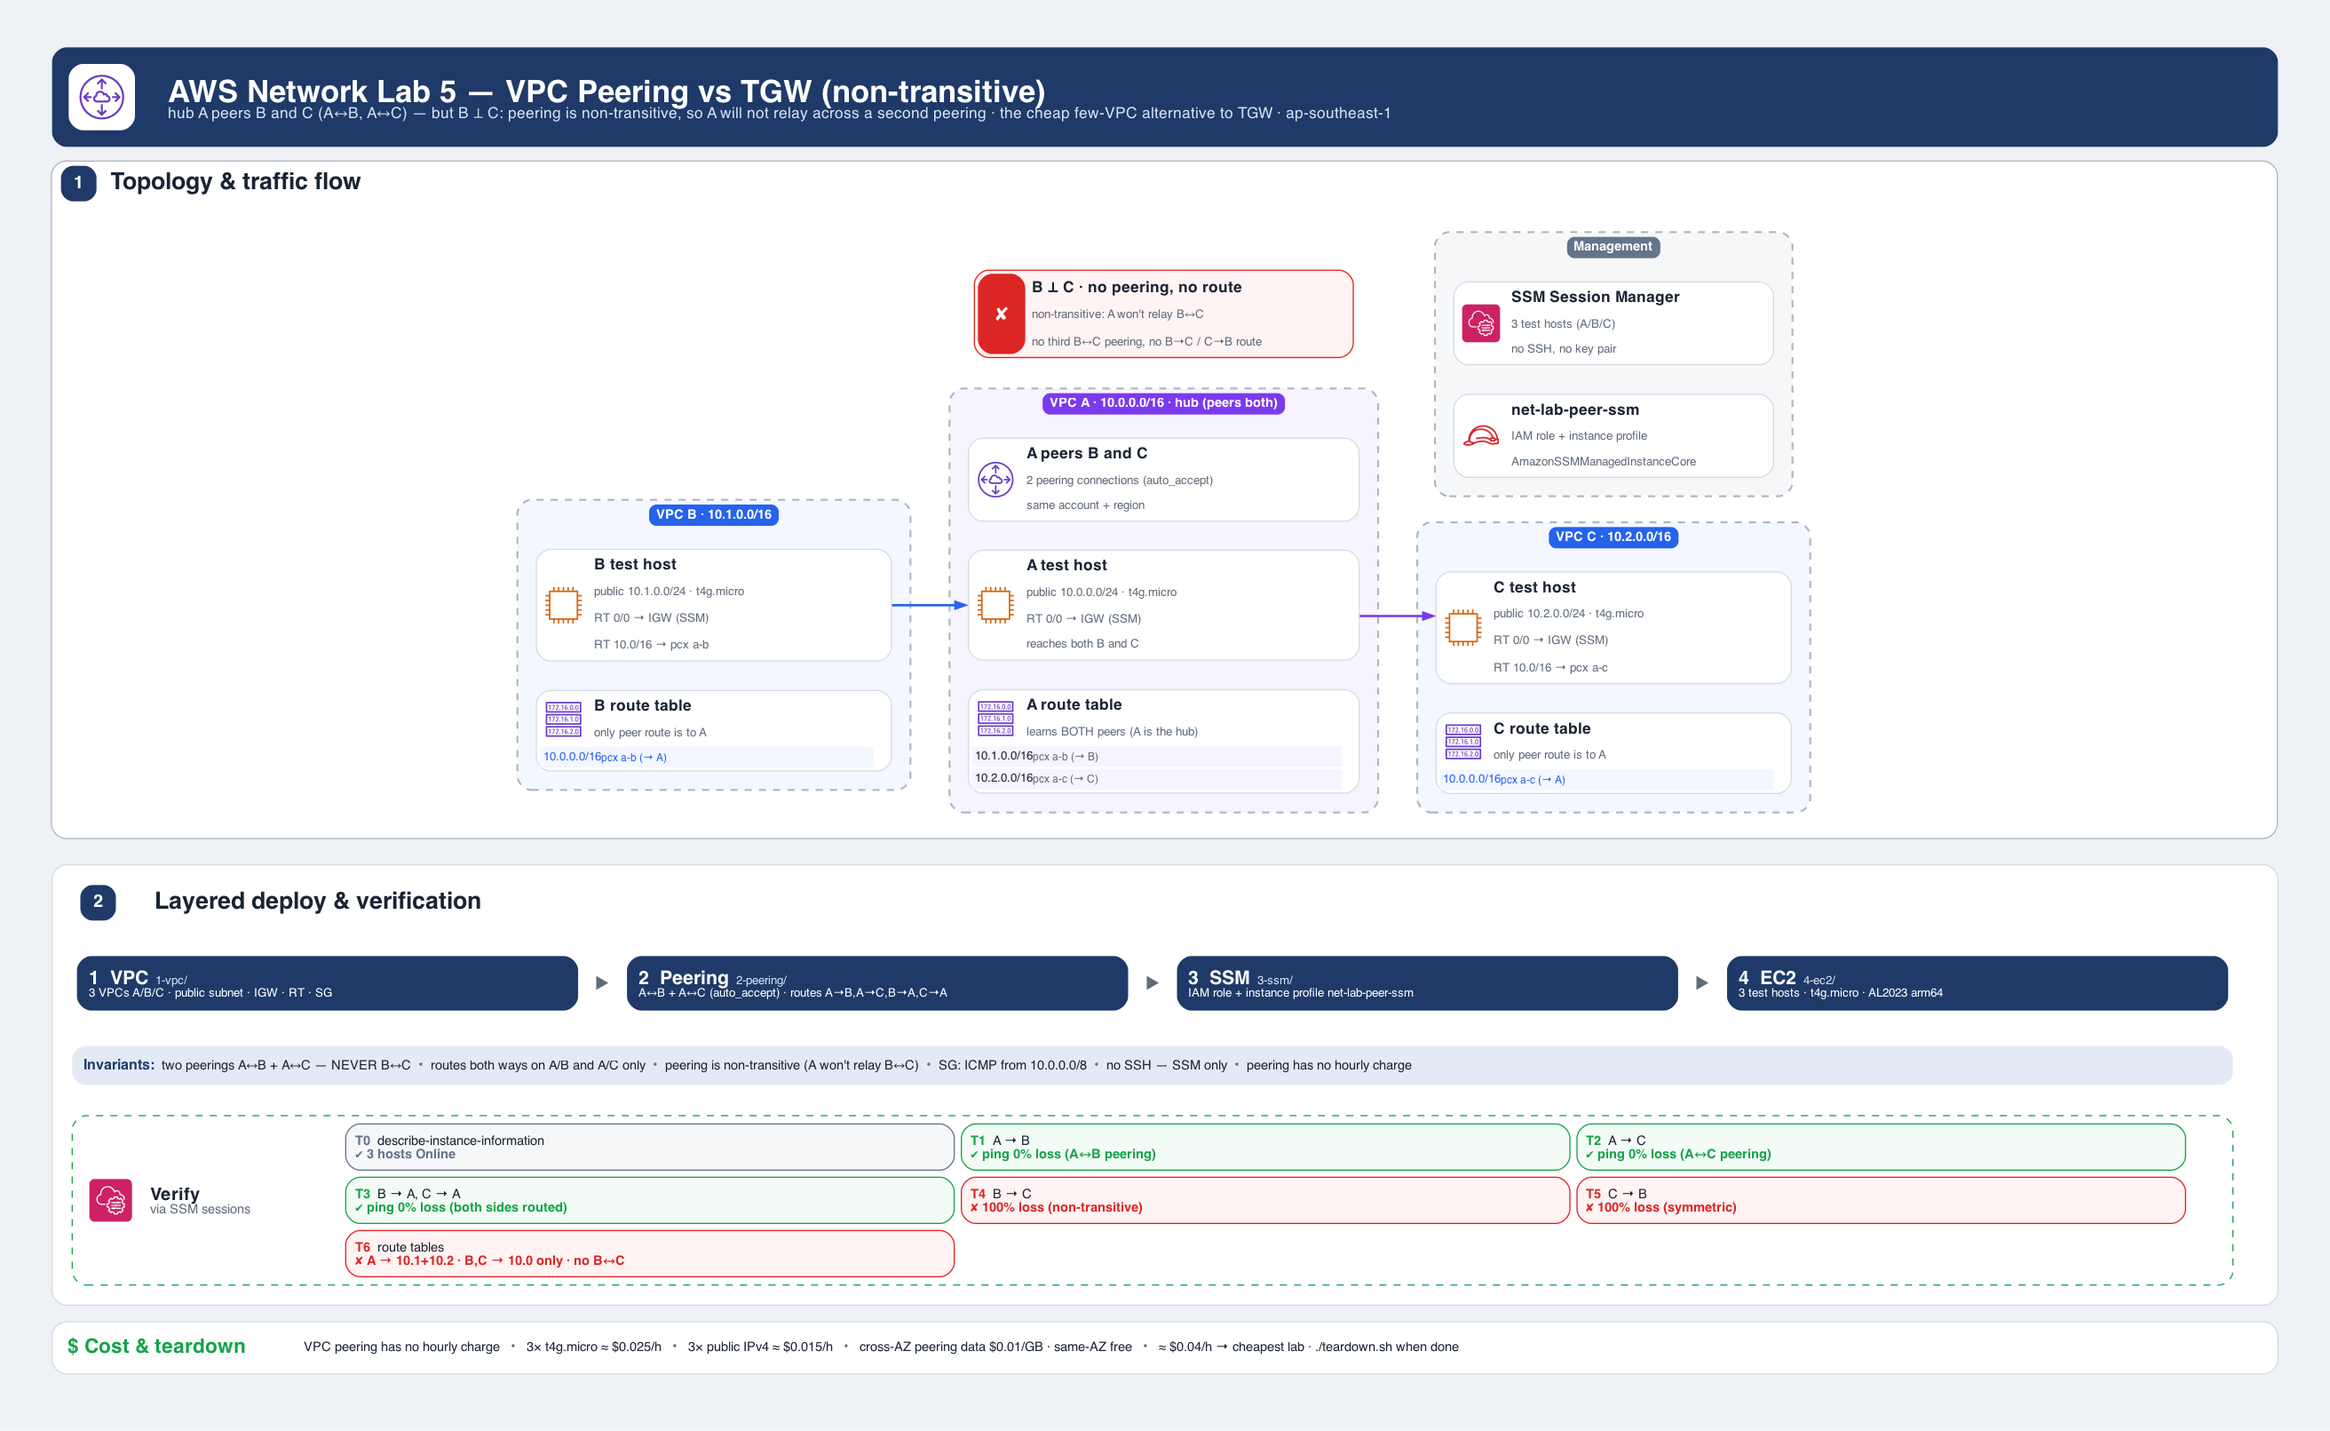
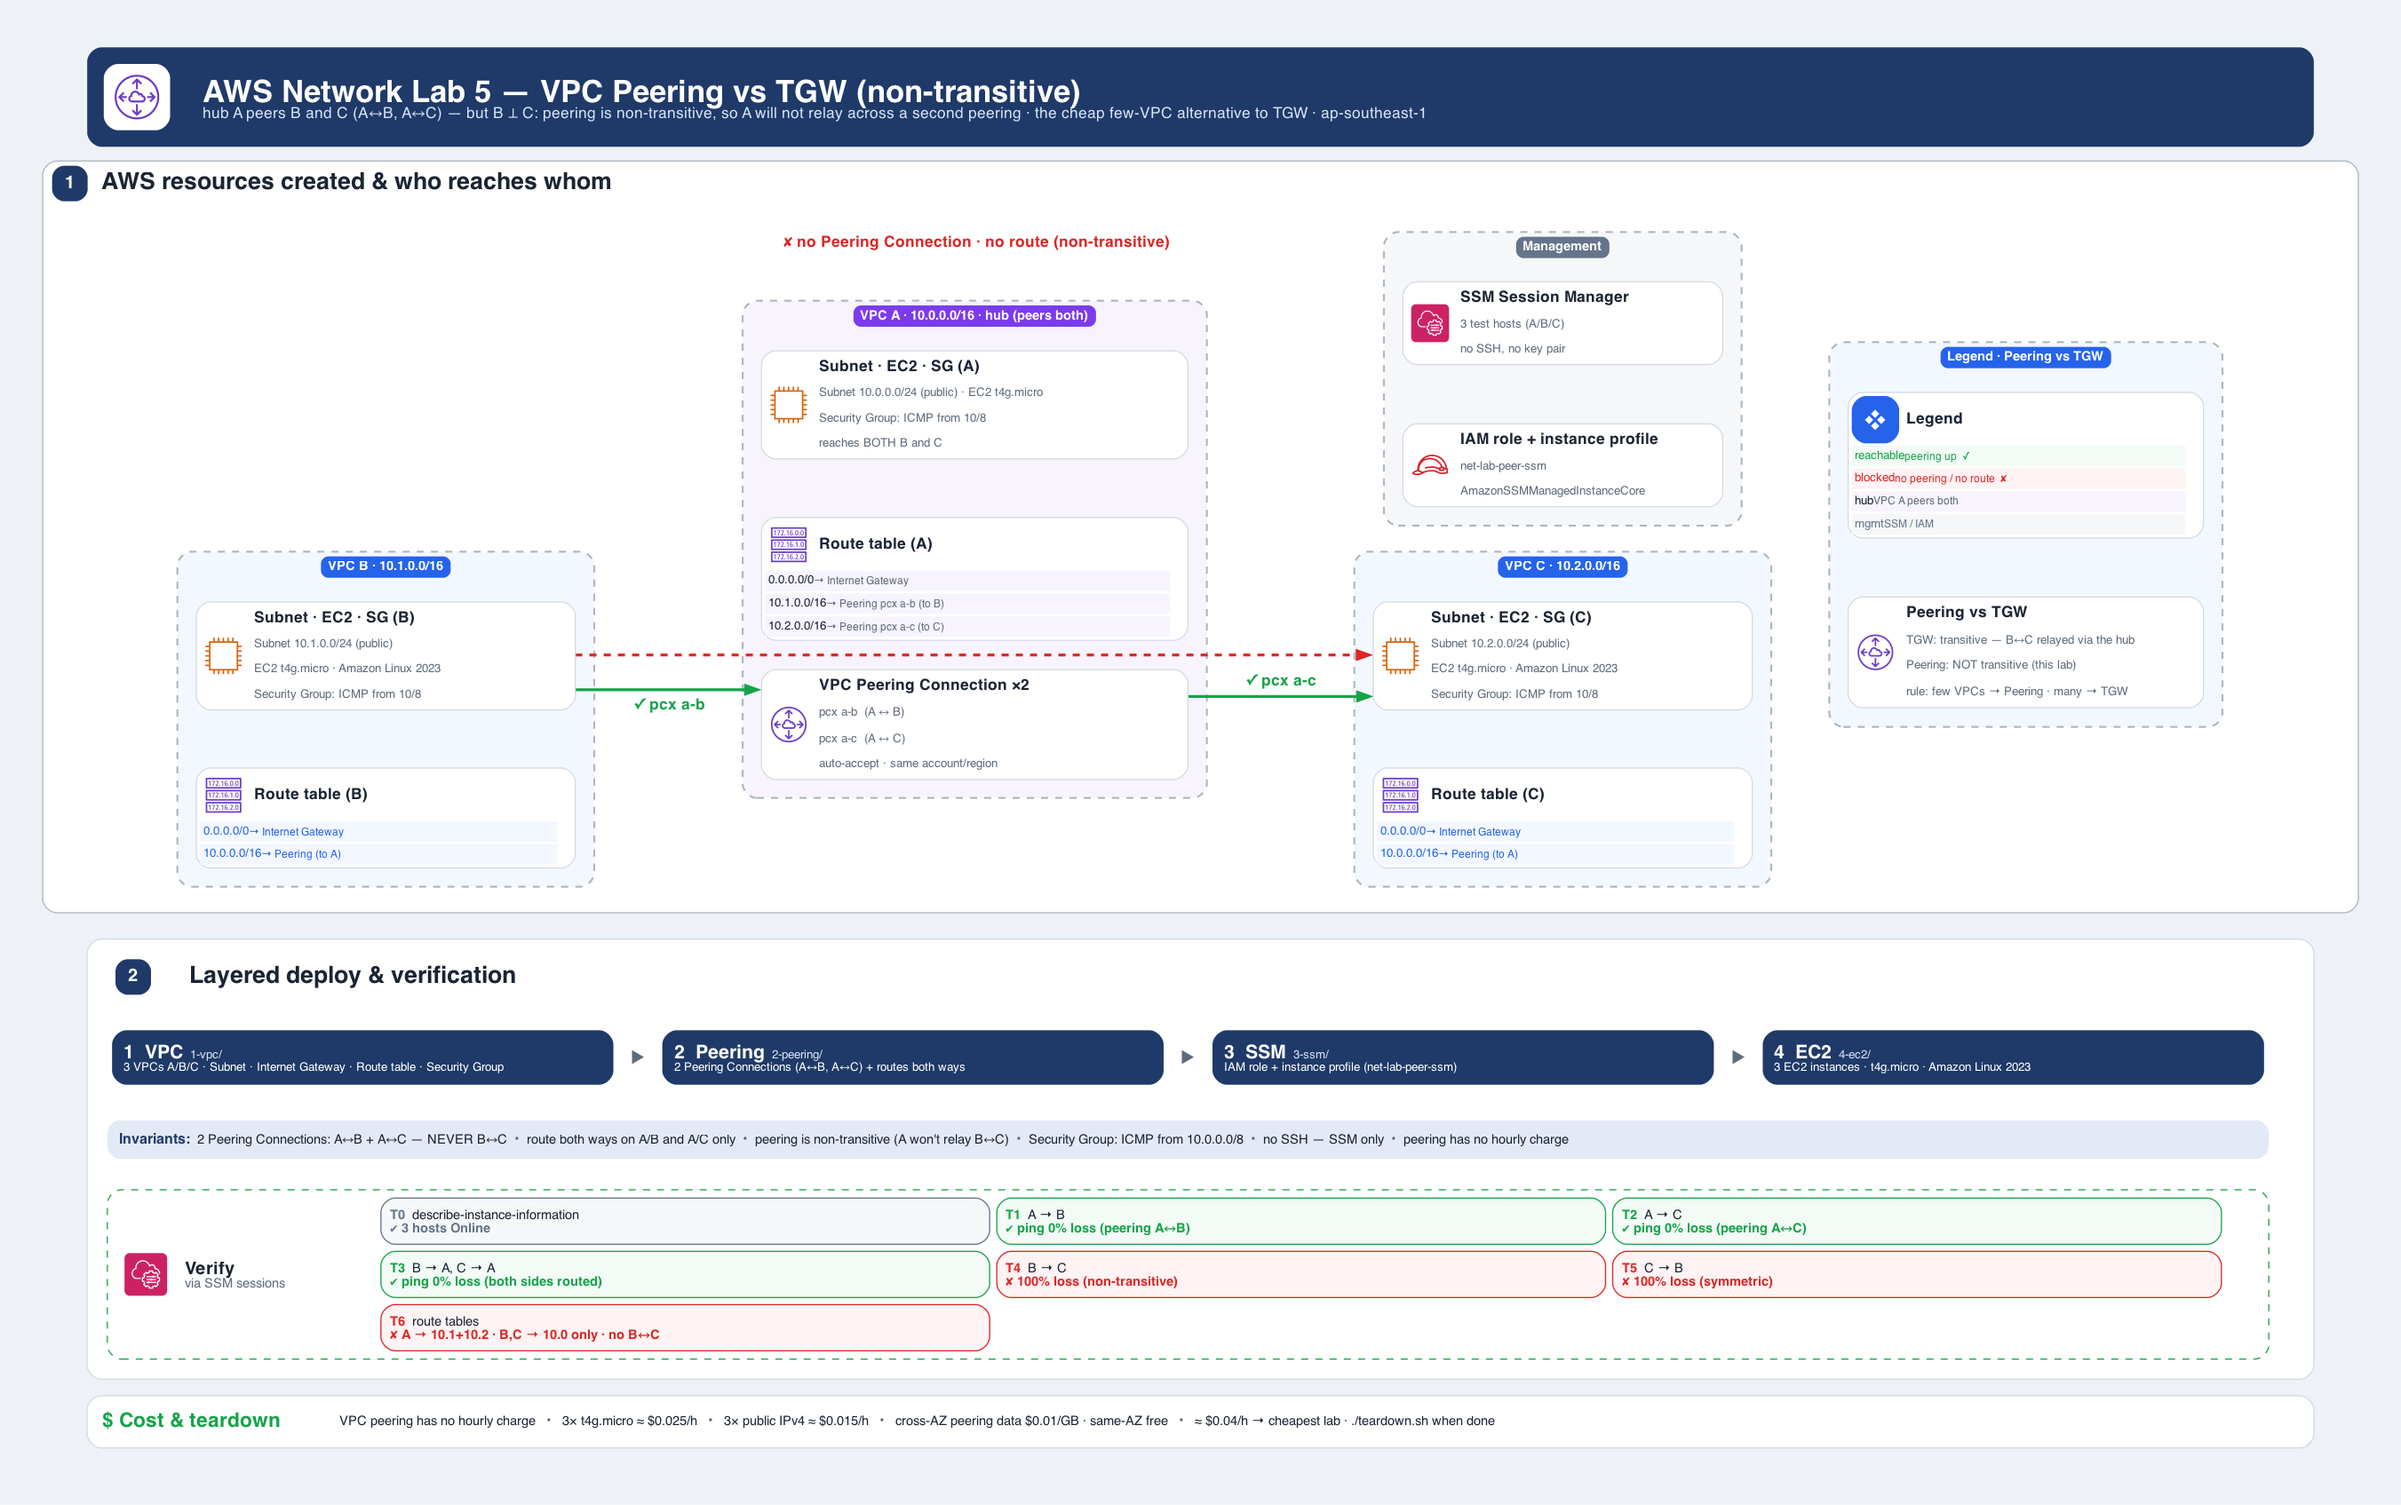
update

diff --git a/network/05-peering/architecture.py b/network/05-peering/architecture.py
@@ -190,31 +190,31 @@ def section2_html(steps, banners, checks):
             f'<TR><TD>{footer(*FOOTER)}</TD></TR></TABLE>>')
 
 
-# ── content (from 1-vpc … 4-ec2 *.tf and README.md) ───────────────────────────────────────────────
+# ── content (AWS resources as they appear in the console, not Terraform names) ───────────────────
 HEADER = ("AWS Network Lab 5 — VPC Peering vs TGW (non-transitive)",
           "hub A peers B and C (A↔B, A↔C) — but B ⊥ C: peering is non-transitive, so A will not relay "
           "across a second peering · the cheap few-VPC alternative to TGW · ap-southeast-1")
 
 STEPS = [  # (name, folder, builds, role)
-    ("VPC", "1-vpc/", "3 VPCs A/B/C · public subnet · IGW · RT · SG", "main"),
-    ("Peering", "2-peering/", "A↔B + A↔C (auto_accept) · routes A→B,A→C,B→A,C→A", "main"),
-    ("SSM", "3-ssm/", "IAM role + instance profile net-lab-peer-ssm", "main"),
-    ("EC2", "4-ec2/", "3 test hosts · t4g.micro · AL2023 arm64", "main"),
+    ("VPC", "1-vpc/", "3 VPCs A/B/C · Subnet · Internet Gateway · Route table · Security Group", "main"),
+    ("Peering", "2-peering/", "2 Peering Connections (A↔B, A↔C) + routes both ways", "main"),
+    ("SSM", "3-ssm/", "IAM role + instance profile (net-lab-peer-ssm)", "main"),
+    ("EC2", "4-ec2/", "3 EC2 instances · t4g.micro · Amazon Linux 2023", "main"),
 ]
 BANNERS = [
     ("Invariants:", [
-        "two peerings A↔B + A↔C — NEVER B↔C",
-        "routes both ways on A/B and A/C only",
+        "2 Peering Connections: A↔B + A↔C — NEVER B↔C",
+        "route both ways on A/B and A/C only",
         "peering is non-transitive (A won't relay B↔C)",
-        "SG: ICMP from 10.0.0.0/8",
+        "Security Group: ICMP from 10.0.0.0/8",
         "no SSH — SSM only",
         "peering has no hourly charge",
     ]),
 ]
 CHECKS = (("Verify", "via SSM sessions"), icon(SystemsManager), [
     ("T0", "describe-instance-information", "3 hosts Online", "mgmt"),
-    ("T1", "A → B", "ping 0% loss (A↔B peering)", "shared"),
-    ("T2", "A → C", "ping 0% loss (A↔C peering)", "shared"),
+    ("T1", "A → B", "ping 0% loss (peering A↔B)", "shared"),
+    ("T2", "A → C", "ping 0% loss (peering A↔C)", "shared"),
     ("T3", "B → A, C → A", "ping 0% loss (both sides routed)", "shared"),
     ("T4", "B → C", "100% loss (non-transitive)", "deny"),
     ("T5", "C → B", "100% loss (symmetric)", "deny"),
@@ -232,71 +232,86 @@ FOOTER = ("Cost & teardown", [
 OUT = os.path.splitext(os.path.basename(__file__))[0]
 graph_attr = dict(
     rankdir="LR", splines="ortho", newrank="true", bgcolor=CANVAS, pad="0.5", nodesep="0.35",
-    ranksep="0.9", fontname=FONT, label=header_html(icon(VPCPeering), *HEADER), labelloc="t",
+    ranksep="1.1", fontname=FONT, label=header_html(icon(VPCPeering), *HEADER), labelloc="t",
     labeljust="c", compound="true", outputorder="edgesfirst",
 )
 
 with Diagram("", filename=OUT, outformat="png", show=False, direction="LR", graph_attr=graph_attr,
              node_attr=dict(fontname=FONT, fixedsize="false", width="0", height="0", style="", labelloc="c"),
              edge_attr=dict(fontname=FONT)):
-    # invisible wrapper: its bottom label carries every full-width row (section 2 + footer)
     with box("wrapper", dict(label=section2_html(STEPS, BANNERS, CHECKS), labelloc="b",
                              labeljust="c", pencolor="transparent", bgcolor="transparent", margin="0")):
-        with box("section1", dict(label=section_label(1, "Topology & traffic flow", W - 16),
+        with box("section1", dict(label=section_label(1, "AWS resources created & who reaches whom", W - 16),
                                   labelloc="t", labeljust="l", style="rounded", color="#D5DBE3",
                                   bgcolor=PANEL, margin="22")):
-            # column 1 — spoke B
+            # column 1 — spoke B (AWS objects; title matches content)
             with group("VPC B · 10.1.0.0/16", "main"):
-                b_host = node(card("B test host", ["public 10.1.0.0/24 · t4g.micro",
-                                                   "RT 0/0 → IGW (SSM)", "RT 10.0/16 → pcx a-b"], "main",
-                                   icon(EC2Instance)))
-                b_rt = node(card("B route table", ["only peer route is to A"], "main", icon(RouteTable),
-                                 rows=[("10.0.0.0/16", "pcx a-b (→ A)", "main")]))
+                b_res = node(card("Subnet · EC2 · SG (B)", ["Subnet 10.1.0.0/24 (public)",
+                                                            "EC2 t4g.micro · Amazon Linux 2023",
+                                                            "Security Group: ICMP from 10/8"], "main",
+                                  icon(EC2Instance), width=320))
+                b_rt = node(card("Route table (B)", [], "main", icon(RouteTable), width=320,
+                                 rows=[("0.0.0.0/0", "→ Internet Gateway", "main"),
+                                       ("10.0.0.0/16", "→ Peering (to A)", "main")]))
 
-            # column 2 — hub A (peered to both B and C)
+            # column 2 — hub A: Peering Connections + A objects + A route table
             with group("VPC A · 10.0.0.0/16 · hub (peers both)", "hub"):
-                a_pcx = node(card("A peers B and C", ["2 peering connections (auto_accept)",
-                                                      "same account + region"], "hub", icon(VPCPeering),
-                                  width=330))
-                a_host = node(card("A test host", ["public 10.0.0.0/24 · t4g.micro",
-                                                   "RT 0/0 → IGW (SSM)", "reaches both B and C"], "hub",
-                                   icon(EC2Instance), width=330))
-                a_rt = node(card("A route table", ["learns BOTH peers (A is the hub)"], "hub",
-                                 icon(RouteTable), width=330,
-                                 rows=[("10.1.0.0/16", "pcx a-b (→ B)", "hub"),
-                                       ("10.2.0.0/16", "pcx a-c (→ C)", "hub")]))
+                a_pcx = node(card("VPC Peering Connection ×2", ["pcx a-b  (A ↔ B)",
+                                                                "pcx a-c  (A ↔ C)",
+                                                                "auto-accept · same account/region"], "hub",
+                                  icon(VPCPeering), width=360))
+                a_res = node(card("Subnet · EC2 · SG (A)", ["Subnet 10.0.0.0/24 (public) · EC2 t4g.micro",
+                                                            "Security Group: ICMP from 10/8",
+                                                            "reaches BOTH B and C"], "hub",
+                                  icon(EC2Instance), width=360))
+                a_rt = node(card("Route table (A)", [], "hub", icon(RouteTable), width=360,
+                                 rows=[("0.0.0.0/0", "→ Internet Gateway", "hub"),
+                                       ("10.1.0.0/16", "→ Peering pcx a-b (to B)", "hub"),
+                                       ("10.2.0.0/16", "→ Peering pcx a-c (to C)", "hub")]))
 
-            # column 3 — the non-transitive gap between B and C
-            with box("deny", dict(label="", style="invis", margin="4")):
-                deny = node(card("B ⊥ C · no peering, no route", [
-                    "non-transitive: A won't relay B↔C",
-                    "no third B↔C peering, no B→C / C→B route"],
-                    "deny", letter="✘", width=320))
-
-            # column 4 — spoke C
+            # column 3 — spoke C
             with group("VPC C · 10.2.0.0/16", "main"):
-                c_host = node(card("C test host", ["public 10.2.0.0/24 · t4g.micro",
-                                                   "RT 0/0 → IGW (SSM)", "RT 10.0/16 → pcx a-c"], "main",
-                                   icon(EC2Instance)))
-                c_rt = node(card("C route table", ["only peer route is to A"], "main", icon(RouteTable),
-                                 rows=[("10.0.0.0/16", "pcx a-c (→ A)", "main")]))
+                c_res = node(card("Subnet · EC2 · SG (C)", ["Subnet 10.2.0.0/24 (public)",
+                                                            "EC2 t4g.micro · Amazon Linux 2023",
+                                                            "Security Group: ICMP from 10/8"], "main",
+                                  icon(EC2Instance), width=320))
+                c_rt = node(card("Route table (C)", [], "main", icon(RouteTable), width=320,
+                                 rows=[("0.0.0.0/0", "→ Internet Gateway", "main"),
+                                       ("10.0.0.0/16", "→ Peering (to A)", "main")]))
 
-            # column 5 — management
+            # column 4 — management
             with group("Management", "mgmt"):
                 ssm = node(card("SSM Session Manager", ["3 test hosts (A/B/C)", "no SSH, no key pair"],
                                 "mgmt", icon(SystemsManager), width=270))
-                role = node(card("net-lab-peer-ssm", ["IAM role + instance profile",
-                                                      "AmazonSSMManagedInstanceCore"], "mgmt", icon(IAMRole),
-                                 width=270))
+                role = node(card("IAM role + instance profile", ["net-lab-peer-ssm",
+                                                                 "AmazonSSMManagedInstanceCore"], "mgmt",
+                                 icon(IAMRole), width=270))
 
-            # data path: B ↔ A ↔ C work (two peerings); B ⊥ C sits between them
-            flow(b_host, a_host, "main")
-            flow(a_host, c_host, "hub")
+            # column 5 — legend (colour key) + the "vs TGW" contrast the title promises
+            with group("Legend · Peering vs TGW", "main"):
+                legend = node(card("Legend", [], "main", letter="❖", width=300,
+                                   rows=[("reachable", "peering up  ✓", "shared"),
+                                         ("blocked", "no peering / no route  ✘", "deny"),
+                                         ("hub", "VPC A peers both", "hub"),
+                                         ("mgmt", "SSM / IAM", "mgmt")]))
+                vstgw = node(card("Peering vs TGW", ["TGW: transitive — B↔C relayed via the hub",
+                                                     "Peering: NOT transitive (this lab)",
+                                                     "rule: few VPCs → Peering · many → TGW"], "hub",
+                                  icon(VPCPeering), width=300))
 
-            a_host >> Edge(style="invis") >> ssm  # keeps Management as the last column
-            deny >> Edge(style="invis") >> ssm    # pin the deny card ahead of Management
-            # column ordering only: within a rank=same column (LR) a flat edge a → b puts b ABOVE a,
-            # so each list below is written top → bottom and wired in reverse.
-            for col in [[b_host, b_rt], [a_pcx, a_host, a_rt], [c_host, c_rt], [ssm, role]]:
+            # peering that EXISTS — solid green, ✓ verdict on the link
+            b_res >> Edge(label="  ✓ pcx a-b  ", color=ROLE["shared"][0], penwidth="2.4", fontname=BOLD,
+                          fontcolor=ROLE["shared"][0], dir="both") >> a_pcx
+            a_pcx >> Edge(label="  ✓ pcx a-c  ", color=ROLE["shared"][0], penwidth="2.4", fontname=BOLD,
+                          fontcolor=ROLE["shared"][0], dir="both") >> c_res
+            # non-transitive gap — dashed RED straight between B and C, ✘ verdict
+            b_res >> Edge(label=" ✘ no Peering Connection · no route (non-transitive) ",
+                          color=ROLE["deny"][0], style="dashed", penwidth="2.4", dir="both",
+                          fontname=BOLD, fontcolor=ROLE["deny"][0], constraint="false") >> c_res
+
+            a_res >> Edge(style="invis") >> ssm    # Management after the VPCs
+            role >> Edge(style="invis") >> legend  # Legend column last
+            # column ordering only (LR rank=same): write top→bottom, wire in reverse.
+            for col in [[b_res, b_rt], [a_pcx, a_res, a_rt], [c_res, c_rt], [ssm, role], [legend, vstgw]]:
                 for upper, lower in zip(col, col[1:]):
                     lower >> Edge(style="invis") >> upper
